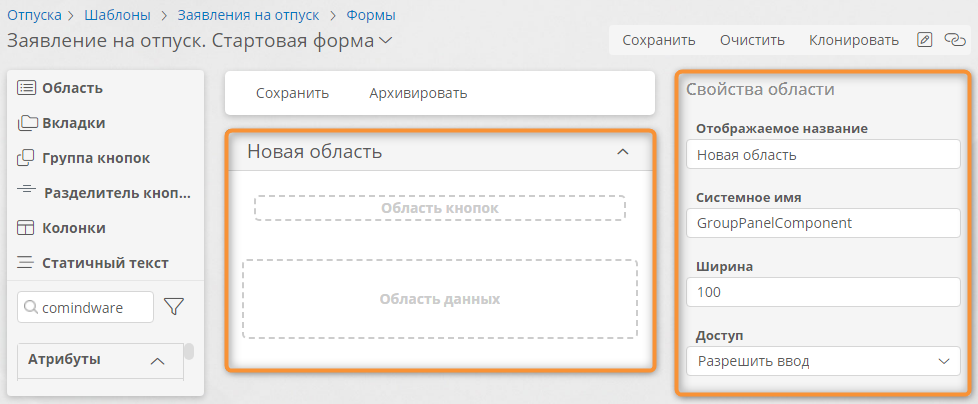
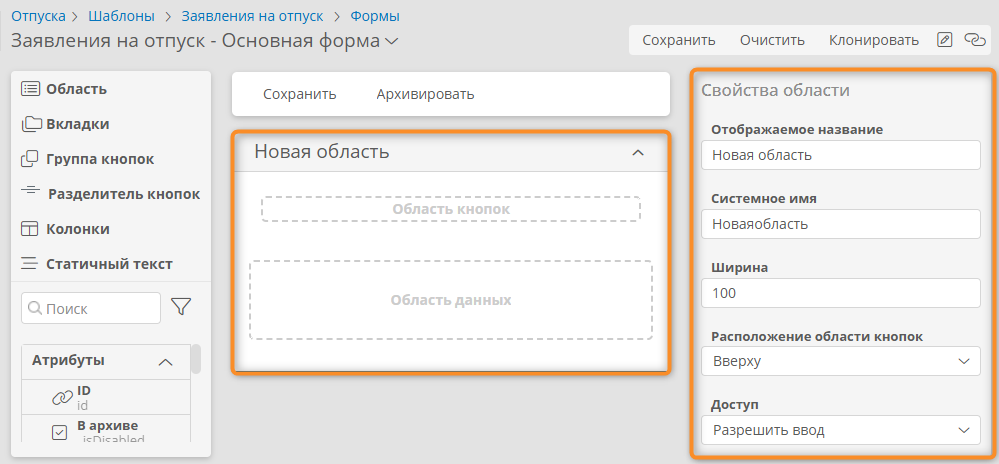
[#1871085] Edited form_static_elements.md

diff --git a/docs/ru/business_apps/templates/forms/form_static_elements.md b/docs/ru/business_apps/templates/forms/form_static_elements.md
@@ -21,11 +21,13 @@ kbId: 4787
 - **[Колонки](#form_static_elements_columns)** — позволяют расположить элементы в несколько столбцов.
 - **[Статичный текст](#form_static_elements_static_text)** — позволяет расположить на форме произвольный текст с HTML-форматированием.
 
+Также предусмотрены элементы «**Группа кнопок**» и «**Разделитель кнопок**» для настройки на форме [области кнопок][button_area_configure].
+
 </div>
 
 ## Область {: #form_static_elements_area}
 
-**Область** представляет собой группу элементов формы с заголовком.
+**Область** представляет собой группу эле ментов формы с заголовком.
 
 Все остальные элементы формы (кроме вложенных форм) могут располагаться только в областях. Поэтому на форме должна быть как минимум одна область, либо одна вложенная форма.
 
@@ -35,10 +37,13 @@ kbId: 4787
 
 ### Свойства области {: .pageBreakBefore }
 
-- **Отображаемое название**— заголовок области, который будет отображаться в форме.
+- **Отображаемое название** — заголовок области, который будет отображаться в форме.
 - **Системное имя** — уникальное имя элемента формы, используемое при настройке [правил для формы][form_rules].
     --8<-- "system_name_requirements.md"
 - **Ширина** — размер области в процентах от ширины формы. По умолчанию ширина области рассчитывается автоматически в соответствии с количеством областей по горизонтали, расположенных на форме.
+- **Расположение области кнопок** — положение области кнопок относительно области данных:
+    - **Вверху**;
+    - **Внизу**.
 - **Доступ** — режим доступа к данным полей внутри области и отображения области:
     - **Разрешить ввод** — конечный пользователь сможет вводить данные в поля внутри области.
     - **Только чтение** — данные внутри области можно будет только просматривать.
@@ -58,7 +63,7 @@ _![Настройка области на форме](img/form_static_elements_a
 
 - **Системное имя** — уникальное имя элемента формы, используемое при настройке [правил для формы][form_rules].
     --8<-- "system_name_requirements.md"
-- **Доступ** — режим доступа к данным полей внутри вкладок и отображения вкладок *(настраивается как для всех вкладок, так и для отдельных вкладок)*.
+- **Доступ** — режим доступа к данным полей внутри вкладок и отображения вкладок (настраивается как для всех вкладок, так и для отдельных вкладок).
     - **Разрешить ввод** — конечный пользователь сможет вводить данные в поля внутри вкладок.
     - **Только чтение** — данные внутри вкладок можно будет только просматривать.
     - **Скрыть** — вкладки и элементы внутри них не будут отображаться на форме. Показать скрытый элемент можно с помощью [правил для формы][form_rules].
@@ -67,11 +72,11 @@ _![Настройка области на форме](img/form_static_elements_a
 - **Вверх** <i class="fa-light fa-angle-up"></i> и **вниз** <i class="fa-light fa-angle-down"></i> — эти кнопки позволяют менять порядок вкладок.
 - **Удалить** <i class="fa-light fa-trash-alt"></i> — эта кнопка позволяет удалить одну вкладку. Если вкладка содержит вложенные элементы, потребуется подтвердить удаление.
 
-При добавлении вкладок на рабочую область конструктора форм, вкладки создаются с вложенным элементом «**Столбцы**», который при необходимости можно удалить.
+При добавлении вкладок на рабочую область конструктора форм, вкладки создаются с вложенным элементом «**Колонки**», который при необходимости можно удалить.
 
 Каждая вкладка имеет собственное системное имя и, следовательно, для каждой вкладки (как и для элемента в целом) имеется возможность настроить отдельное [правило][form_rules] его отображения.
 
-С помощью панели «**Свойства элемента «Вкладки**» можно добавлять новые вкладки, менять их порядок и удалять.
+С помощью панели «**Свойства элементв «Вкладки**» можно добавлять новые вкладки, менять их порядок и удалять.
 
 _![Настройка вкладок на форме](img/form_static_elements_tabs.png)_
 
